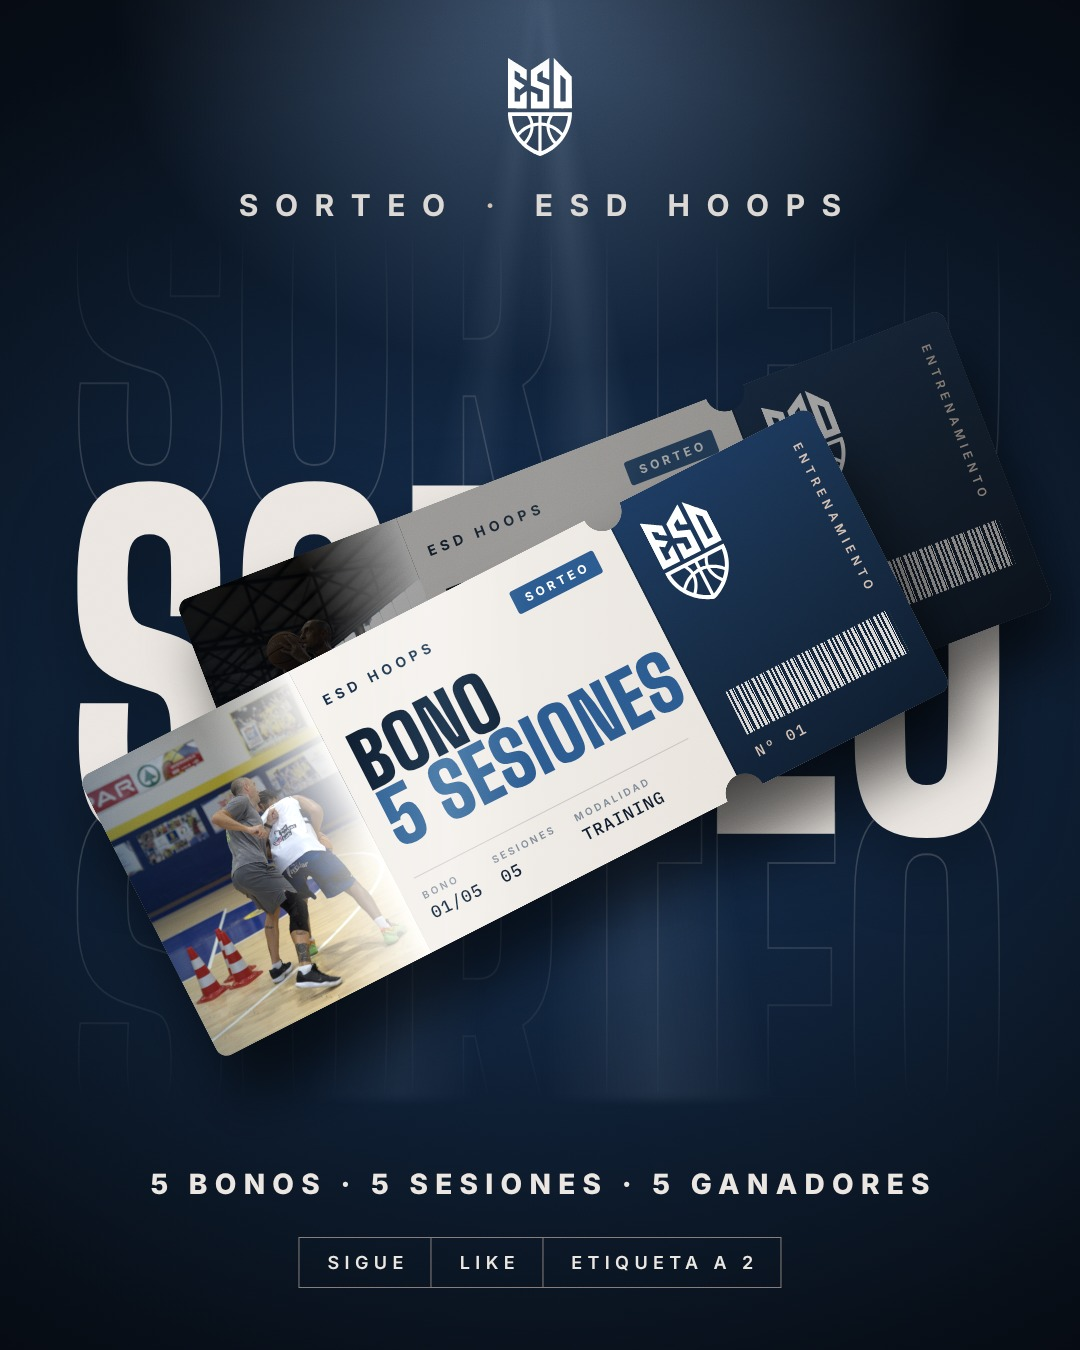
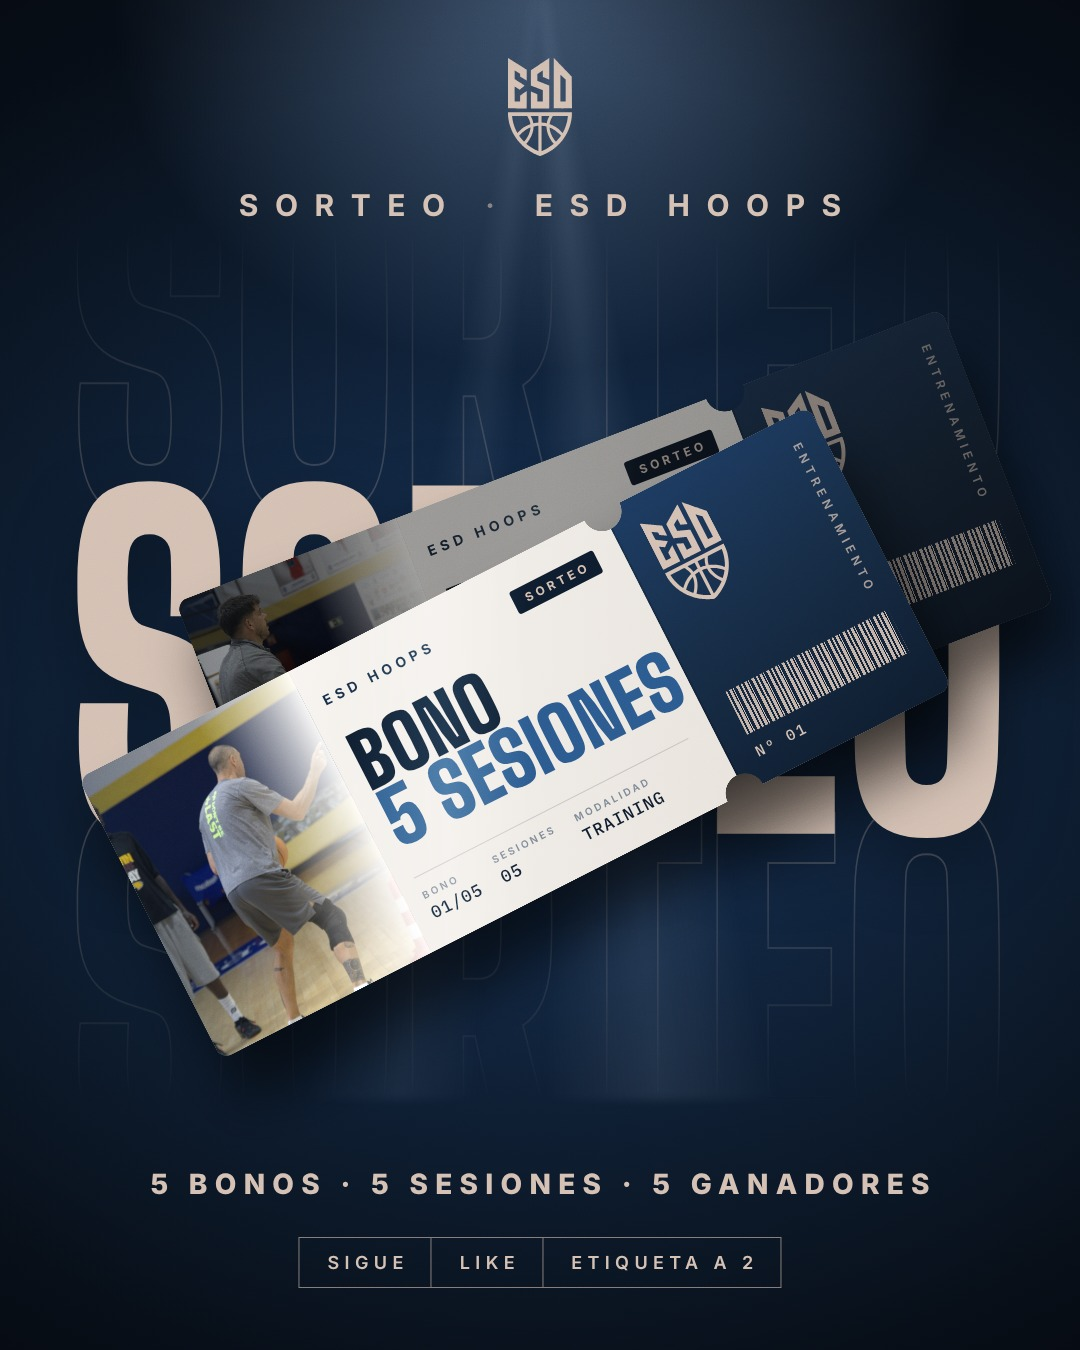
Giveaway ticket post: coaches photos and sand-coloured branding
Claude-Session: https://claude.ai/code/session_01GrUAUBc3Cn1CSSNR3fCGFR

diff --git a/brand/social/feed4/a-sorteo-ticket-pro.html b/brand/social/feed4/a-sorteo-ticket-pro.html
@@ -5,12 +5,12 @@
 .beam { left: 0; top: 0; width: 1080px; height: 1100px; background: conic-gradient(from 168deg at 50% -4%, transparent 0deg, rgba(210,228,255,.09) 6deg, transparent 12deg, transparent 15deg, rgba(210,228,255,.06) 19deg, transparent 24deg); filter: blur(4px); }
 .vig { inset: 0; background: radial-gradient(120% 80% at 50% 50%, transparent 55%, rgba(0,0,0,.45)); }
 .lg { left: 50%; translate: -50% 0; top: 58px; width: 64px; }
-.top { left: 0; right: 0; top: 190px; text-align: center; font: 700 30px/1 'Inter'; letter-spacing: .55em; padding-left: .55em; text-transform: uppercase; color: rgba(235,230,225,.92); }
-.top b { color: var(--arena); font-weight: 600; }
+.top { left: 0; right: 0; top: 190px; text-align: center; font: 700 30px/1 'Inter'; letter-spacing: .55em; padding-left: .55em; text-transform: uppercase; color: var(--arena); }
+.top b { color: rgba(212,192,179,.55); font-weight: 600; }
 .w { left: 0; right: 0; text-align: center; font: 900 340px/.8 'Big Shoulders'; text-transform: uppercase; transform: scaleY(1.28); transform-origin: 50% 0; }
-.w.o { color: transparent; -webkit-text-stroke: 1.6px rgba(235,230,225,.2); }
+.w.o { color: transparent; -webkit-text-stroke: 1.6px rgba(212,192,179,.24); }
 .w1 { top: 172px; -webkit-mask: linear-gradient(180deg, transparent 15%, #000 95%); }
-.w2 { top: 492px; color: var(--hueso); text-shadow: 0 20px 60px rgba(0,0,0,.35); }
+.w2 { top: 492px; color: var(--arena); text-shadow: 0 20px 60px rgba(0,0,0,.35); }
 .w3 { top: 812px; -webkit-mask: linear-gradient(0deg, transparent 15%, #000 95%); }
 .tk { position: absolute; width: 820px; height: 316px; display: flex; border-radius: 12px; color: var(--noche); background: linear-gradient(120deg, #fdfcfa 0%, #f1ede8 45%, #e2dcd5 100%);
   -webkit-mask: radial-gradient(circle 20px at 588px 0, transparent 19.5px, #000 20px) top / 100% 51% no-repeat, radial-gradient(circle 20px at 588px 100%, transparent 19.5px, #000 20px) bottom / 100% 51% no-repeat; }
@@ -20,40 +20,40 @@
 .tk .ph::after { content: ''; position: absolute; inset: 0; background: linear-gradient(90deg, rgba(23,45,71,.25), rgba(23,45,71,0) 55%, rgba(253,252,250,.95) 100%); }
 .tk .bd { width: 352px; flex: none; padding: 30px 26px 26px 18px; display: flex; flex-direction: column; justify-content: space-between; }
 .tk .hd { display: flex; justify-content: space-between; align-items: center; font: 700 14px/1 'Inter'; letter-spacing: .34em; text-transform: uppercase; color: var(--azul); }
-.tk .hd i { font-style: normal; background: var(--cielo); color: #fff; padding: 7px 10px 6px 13px; border-radius: 3px; letter-spacing: .3em; font-size: 12px; }
+.tk .hd i { font-style: normal; background: var(--noche); color: var(--arena); padding: 7px 10px 6px 13px; border-radius: 3px; letter-spacing: .3em; font-size: 12px; }
 .tk .t { font: 900 76px/.84 'Big Shoulders'; text-transform: uppercase; letter-spacing: .005em; white-space: nowrap; }
 .tk .t b { color: var(--cielo); font-weight: 900; }
 .tk .fl { display: flex; gap: 22px; border-top: 1.5px solid rgba(14,28,46,.18); padding-top: 14px; font: 500 17px/1 'Plex Mono'; letter-spacing: .06em; text-transform: uppercase; }
 .tk .fl small { display: block; font: 600 10px/1 'Inter'; letter-spacing: .26em; color: #7b8796; margin-bottom: 7px; }
-.tk .stub { flex: 1; position: relative; border-left: 2.5px dashed rgba(14,28,46,.22); background: linear-gradient(165deg, #1d3b62 0%, var(--azul) 45%, var(--noche) 100%); color: var(--hueso); border-radius: 0 12px 12px 0; display: grid; grid-template-columns: 1fr auto; grid-template-rows: auto 1fr auto; padding: 28px 22px 24px 26px; }
+.tk .stub { flex: 1; position: relative; border-left: 2.5px dashed rgba(14,28,46,.22); background: linear-gradient(165deg, #1d3b62 0%, var(--azul) 45%, var(--noche) 100%); color: var(--arena); border-radius: 0 12px 12px 0; display: grid; grid-template-columns: 1fr auto; grid-template-rows: auto 1fr auto; padding: 28px 22px 24px 26px; }
 .tk .stub img { width: 66px; grid-column: 1; }
-.tk .vt { grid-column: 2; grid-row: 1 / 3; writing-mode: vertical-rl; font: 600 12px/1 'Inter'; letter-spacing: .4em; text-transform: uppercase; color: var(--arena); }
-.tk .bar { grid-column: 1 / 3; grid-row: 2; align-self: end; height: 48px; margin-bottom: 12px; background: repeating-linear-gradient(90deg, var(--hueso) 0 2px, transparent 2px 4px, var(--hueso) 4px 7px, transparent 7px 8px, var(--hueso) 8px 9px, transparent 9px 12px, var(--hueso) 12px 15px, transparent 15px 17px); opacity: .92; }
+.tk .vt { grid-column: 2; grid-row: 1 / 3; writing-mode: vertical-rl; font: 600 12px/1 'Inter'; letter-spacing: .4em; text-transform: uppercase; color: rgba(212,192,179,.75); }
+.tk .bar { grid-column: 1 / 3; grid-row: 2; align-self: end; height: 48px; margin-bottom: 12px; background: repeating-linear-gradient(90deg, var(--arena) 0 2px, transparent 2px 4px, var(--arena) 4px 7px, transparent 7px 8px, var(--arena) 8px 9px, transparent 9px 12px, var(--arena) 12px 15px, transparent 15px 17px); opacity: .92; }
 .tk .no { grid-column: 1 / 3; font: 500 15px/1 'Plex Mono'; letter-spacing: .16em; color: var(--arena); }
 .p1 { left: 205px; top: 445px; transform: rotate(-21deg); }
 .p2 { left: 105px; top: 575px; transform: rotate(-27deg); }
 .p1.tk { filter: brightness(.62) saturate(.8); }
-.hash { left: 0; right: 0; bottom: 152px; text-align: center; font: 800 28px/1 'Inter'; letter-spacing: .26em; padding-left: .26em; text-transform: uppercase; color: var(--hueso); }
+.hash { left: 0; right: 0; bottom: 152px; text-align: center; font: 800 28px/1 'Inter'; letter-spacing: .26em; padding-left: .26em; text-transform: uppercase; color: var(--arena); }
 .st { left: 50%; translate: -50% 0; bottom: 62px; display: flex; gap: 0; border: 1.5px solid rgba(212,192,179,.6); }
-.st span { font: 600 18px/1 'Inter'; letter-spacing: .3em; text-transform: uppercase; color: var(--hueso); padding: 16px 22px 15px 28px; white-space: nowrap; }
+.st span { font: 600 18px/1 'Inter'; letter-spacing: .3em; text-transform: uppercase; color: var(--arena); padding: 16px 22px 15px 28px; white-space: nowrap; }
 .st span + span { border-left: 1.5px solid rgba(212,192,179,.6); }
 </style></head><body><div class="canvas grain">
 <div class="abs beam"></div>
-<img class="abs lg" src="../../logo/esd-logo-blanco.svg" alt="ESD Hoops">
+<img class="abs lg" src="../../logo/esd-logo-arena.svg" alt="ESD Hoops">
 <div class="abs top">Sorteo <b>·</b> ESD Hoops</div>
 <div class="abs w o w1">Sorteo</div><div class="abs w w2">Sorteo</div><div class="abs w o w3">Sorteo</div>
 <div class="sh p1" style="translate: 20px 40px"></div>
-<div class="tk p1"><div class="ph" style="background-image:url(../../../assets/img/fotos/raw-oct/DSC07508.jpg);background-position:50% 35%"></div>
+<div class="tk p1"><div class="ph" style="background-image:url(../../../assets/img/fotos/raw-oct/DSC07189.jpg);background-size:170%;background-position:45% 52%"></div>
 <div class="bd"><div class="hd"><span>ESD Hoops</span><i>Sorteo</i></div>
 <div class="t">Bono<br><b>5 sesiones</b></div>
 <div class="fl"><div><small>Bono</small>02/05</div><div><small>Sesiones</small>05</div><div><small>Modalidad</small>Training</div></div></div>
-<div class="stub"><img src="../../logo/esd-logo-blanco.svg" alt=""><div class="vt">Entrenamiento</div><div class="bar"></div><div class="no">Nº 02</div></div></div>
+<div class="stub"><img src="../../logo/esd-logo-arena.svg" alt=""><div class="vt">Entrenamiento</div><div class="bar"></div><div class="no">Nº 02</div></div></div>
 <div class="sh p2" style="translate: 24px 46px"></div>
-<div class="tk p2"><div class="ph" style="background-image:url(../../../assets/img/fotos/raw-oct/DSC06701.jpg);background-position:45% 40%"></div>
+<div class="tk p2"><div class="ph" style="background-image:url(../../../assets/img/fotos/raw-oct/DSC07139.jpg);background-size:210%;background-position:44% 55%"></div>
 <div class="bd"><div class="hd"><span>ESD Hoops</span><i>Sorteo</i></div>
 <div class="t">Bono<br><b>5 sesiones</b></div>
 <div class="fl"><div><small>Bono</small>01/05</div><div><small>Sesiones</small>05</div><div><small>Modalidad</small>Training</div></div></div>
-<div class="stub"><img src="../../logo/esd-logo-blanco.svg" alt=""><div class="vt">Entrenamiento</div><div class="bar"></div><div class="no">Nº 01</div></div></div>
+<div class="stub"><img src="../../logo/esd-logo-arena.svg" alt=""><div class="vt">Entrenamiento</div><div class="bar"></div><div class="no">Nº 01</div></div></div>
 <div class="abs vig"></div>
 <div class="abs hash">5 bonos · 5 sesiones · 5 ganadores</div>
 <div class="abs st"><span>Sigue</span><span>Like</span><span>Etiqueta a 2</span></div>
